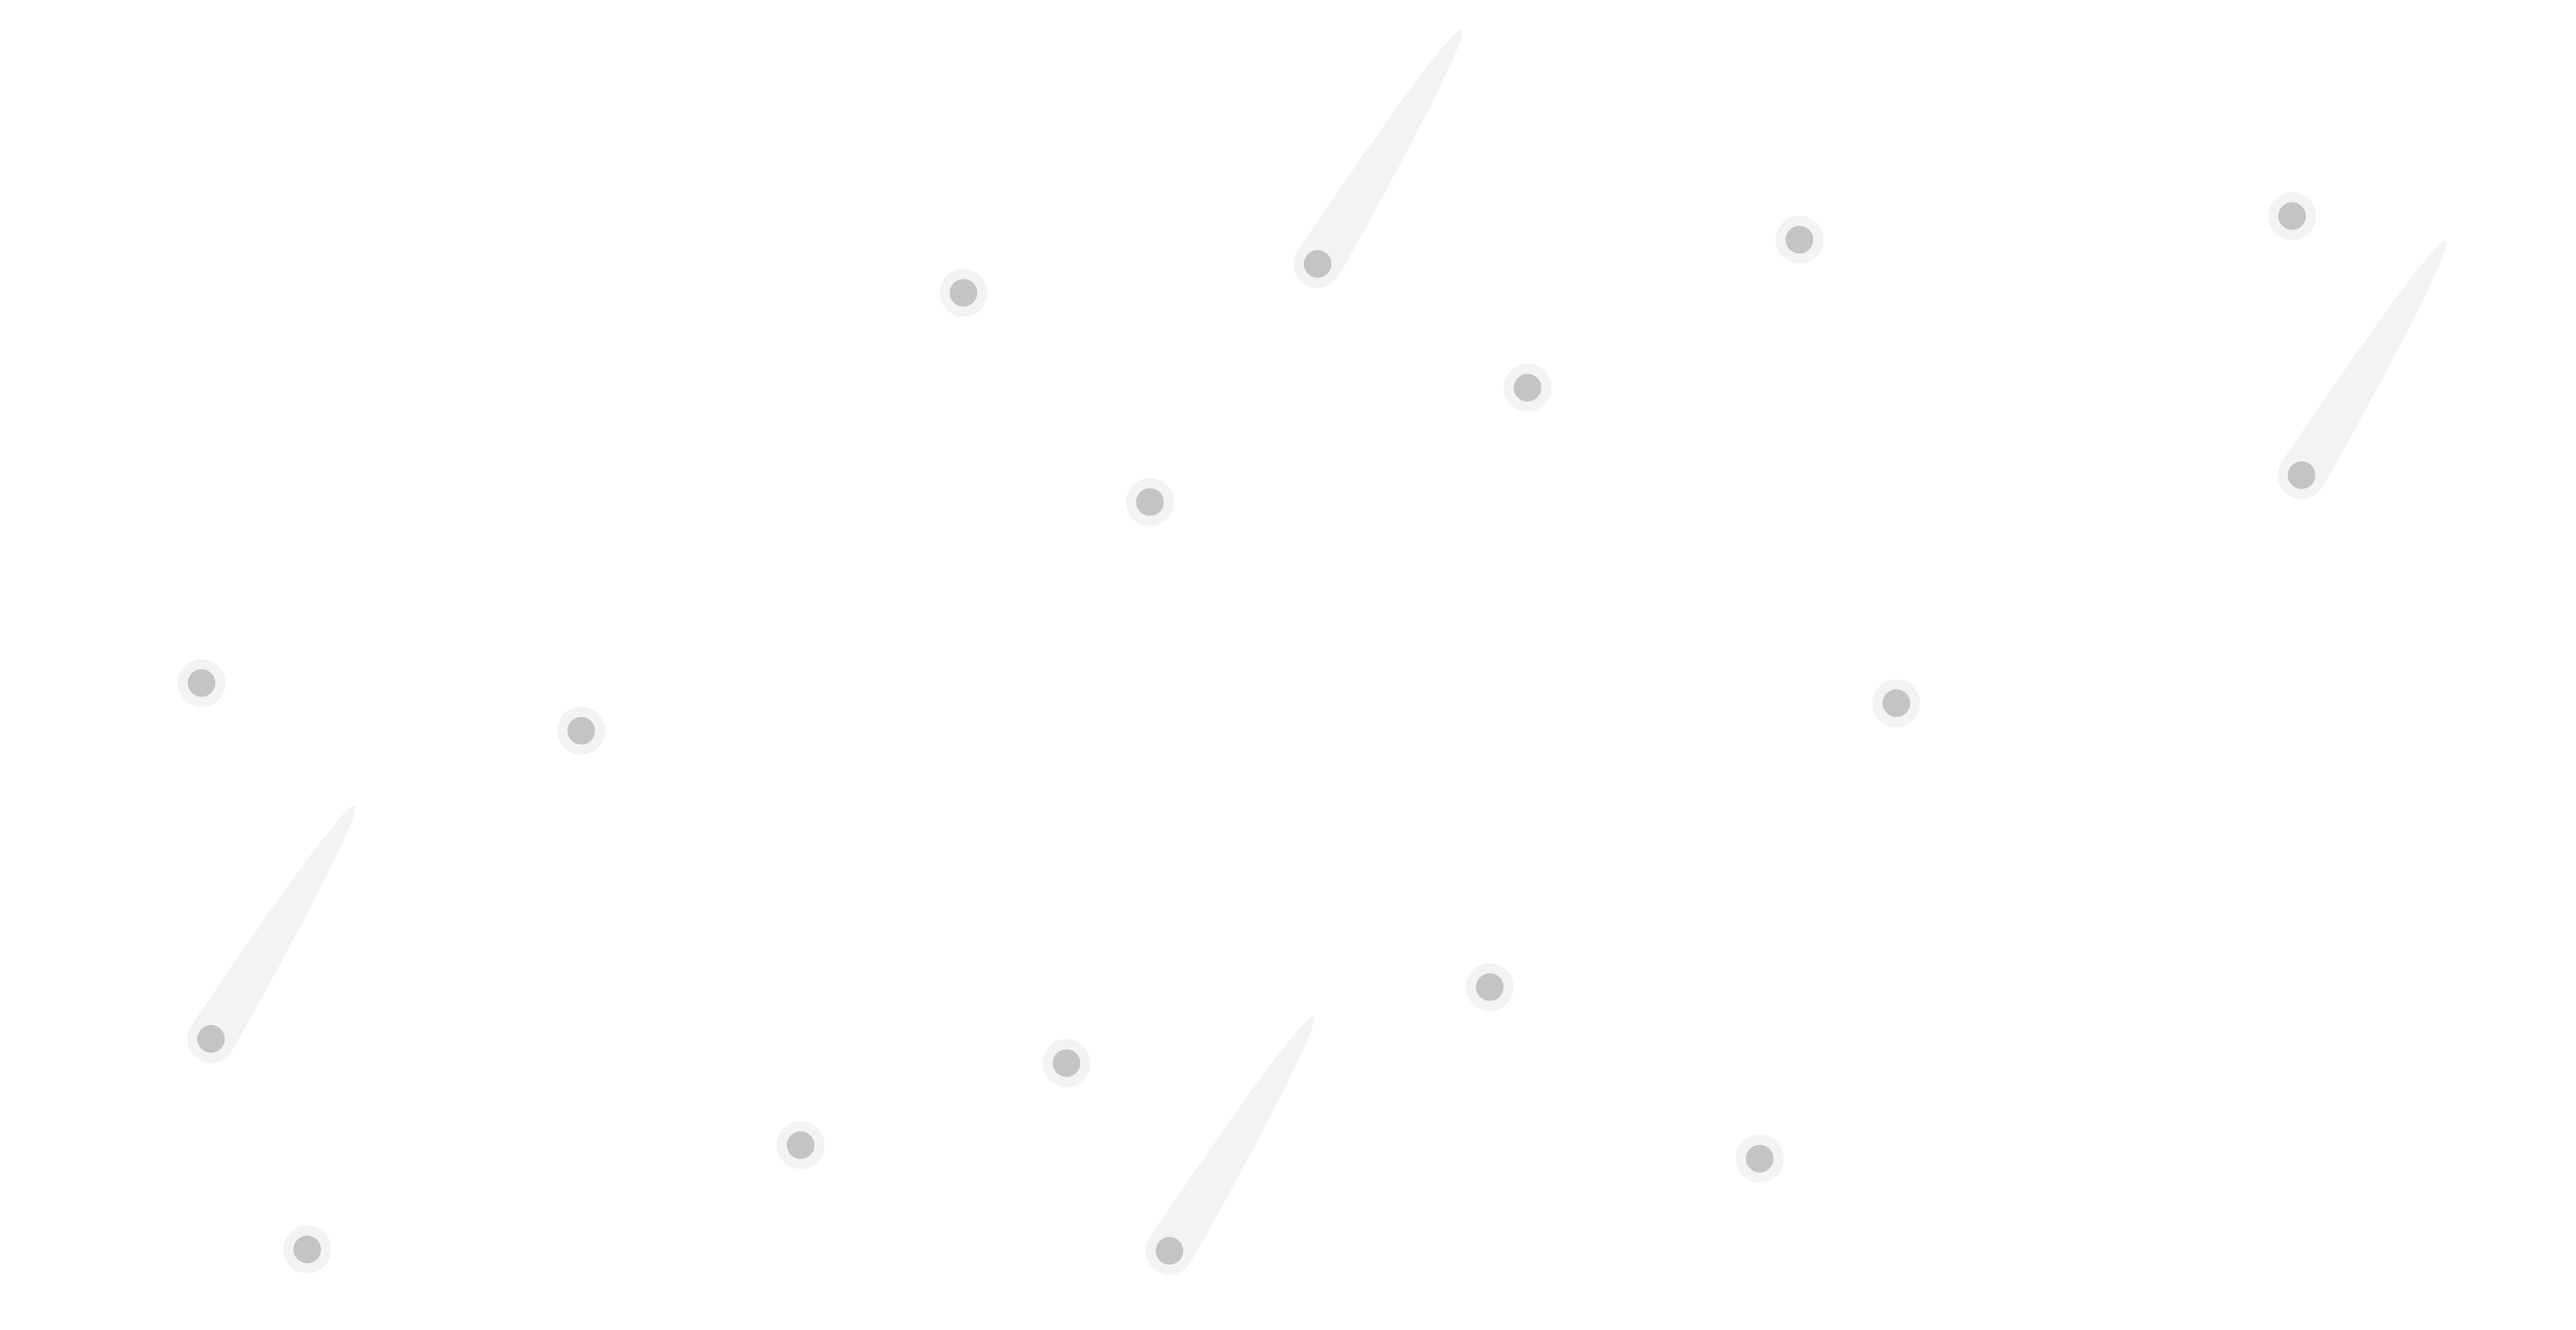
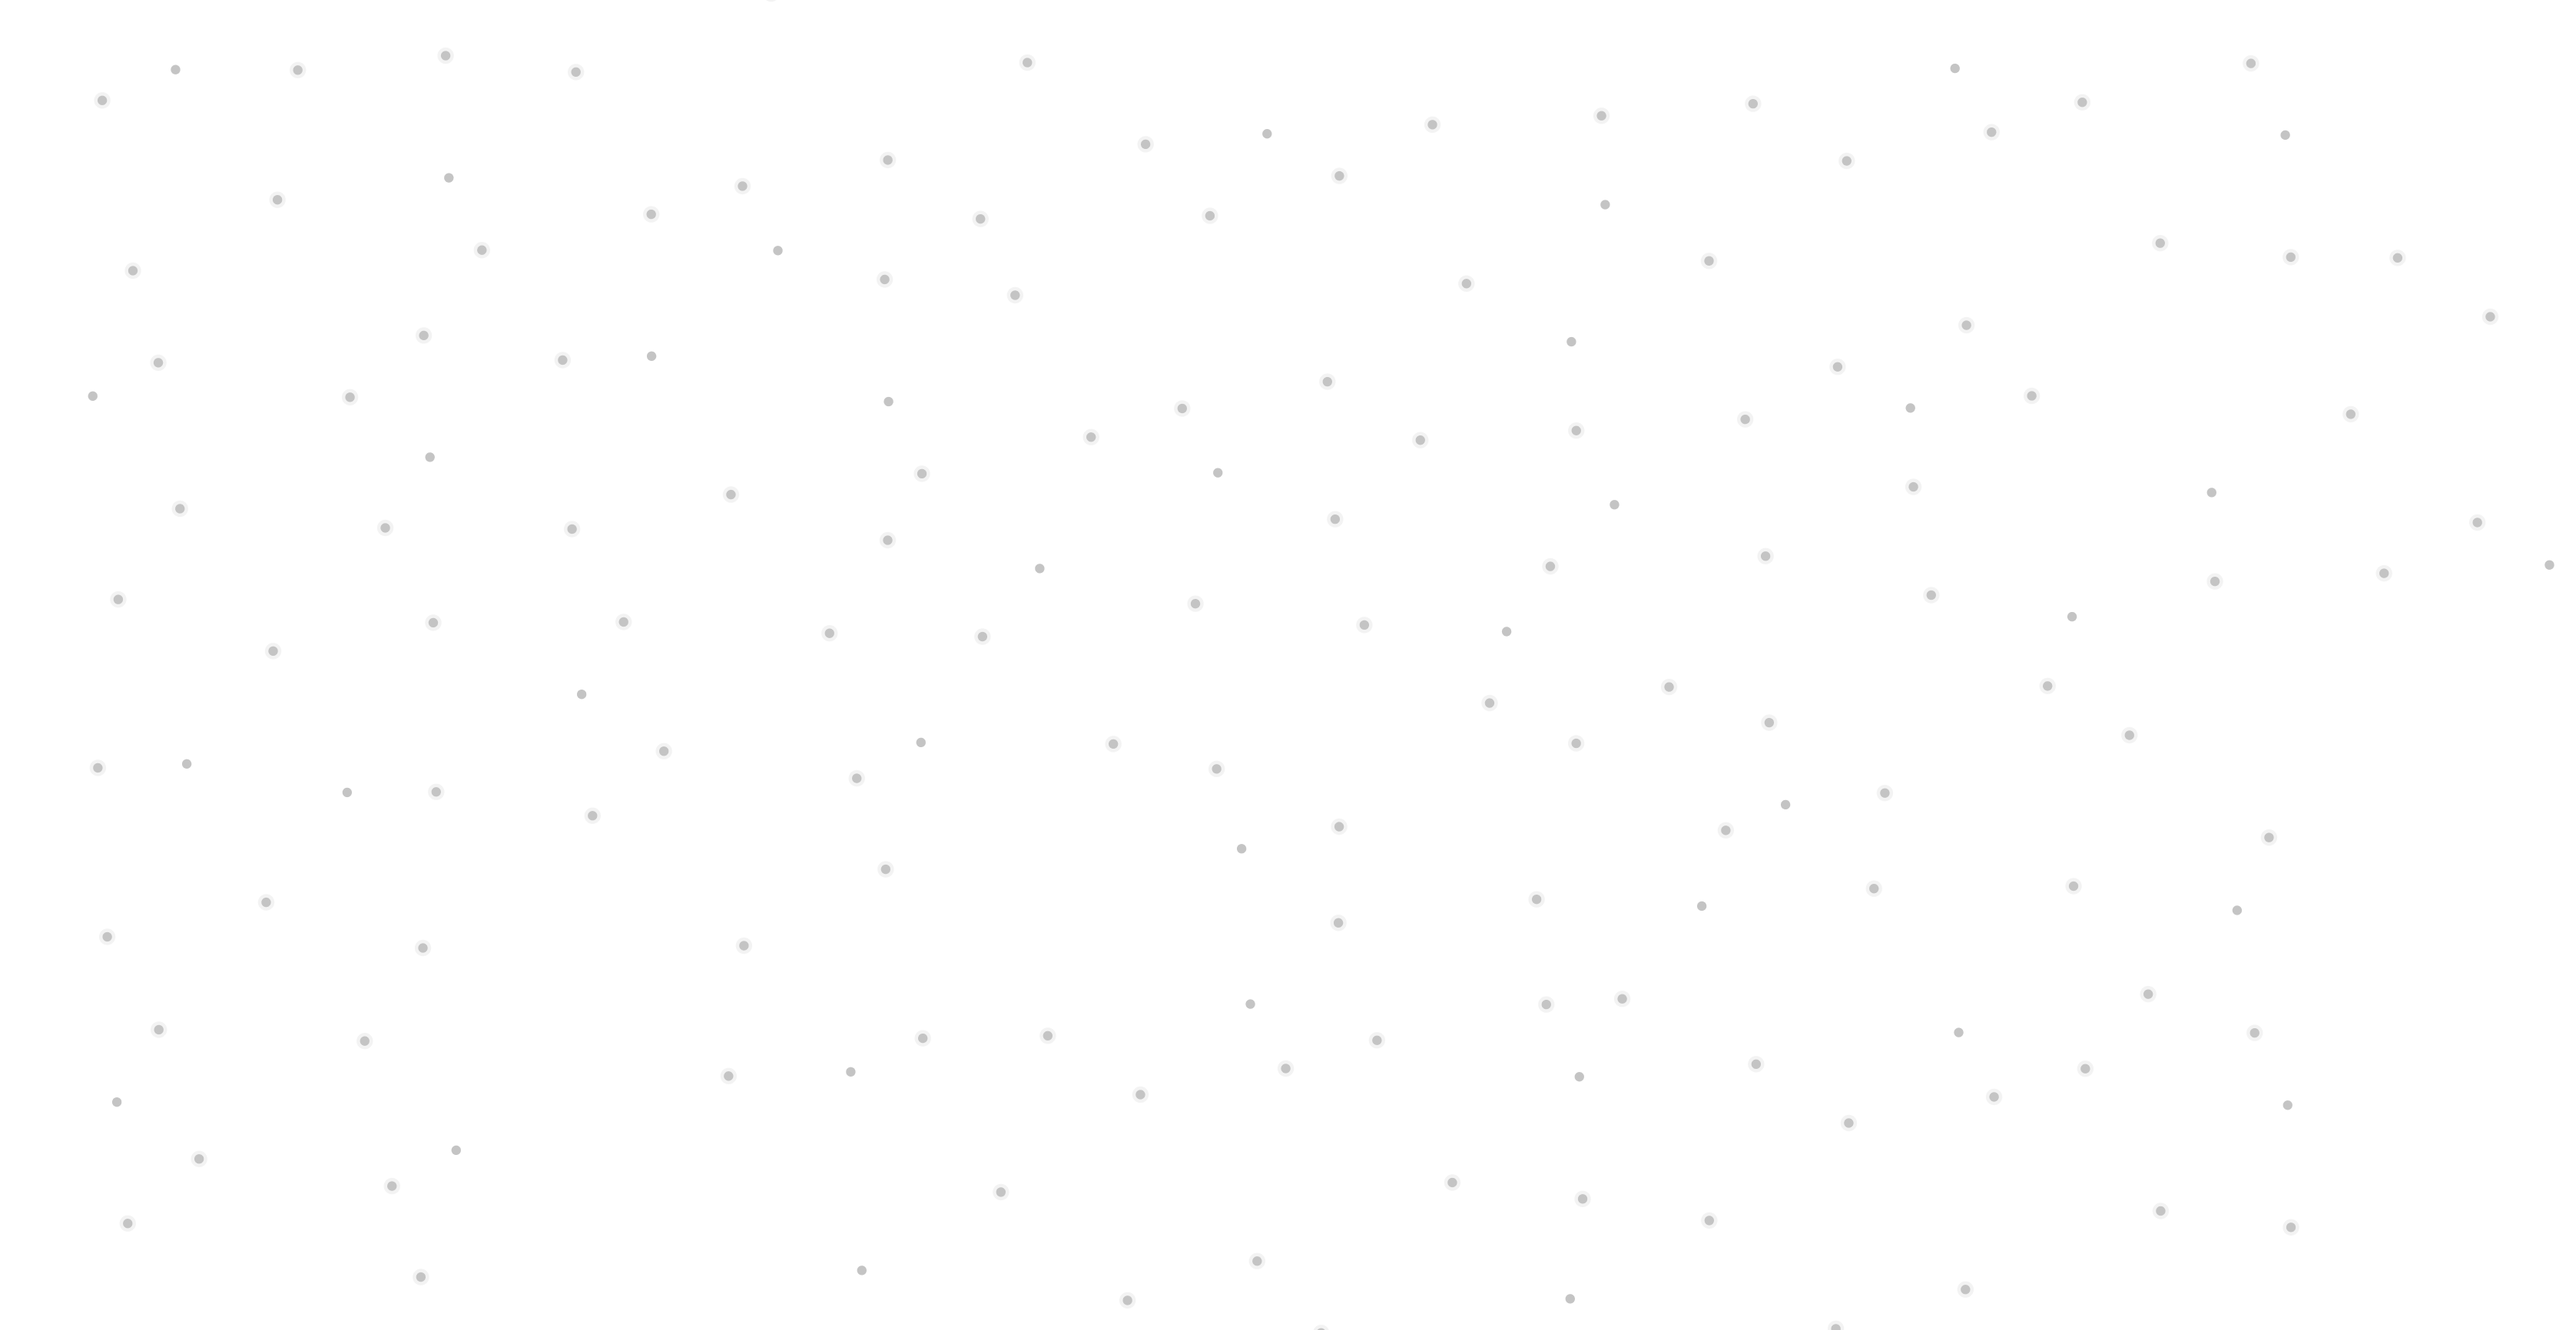
add more parallax effects

diff --git a/assets/style.css b/assets/style.css
@@ -5,7 +5,7 @@ body {
 /* hero */
 #hero {
 
-    background-image: url(../img/orang-biru.png), url(../img/orang-kuning.png), url(../img/orang-merah.png), url(../img/Bintang.png), url(../img/planet-merah.png), url(../img/planet-biru.png), url(../img/planet-kuning.png);
+    background-image: url(../img/orang-biru.png), url(../img/orang-kuning.png), url(../img/orang-merah.png), url(../img/Bintang-blur.png), url(../img/planet-merah.png), url(../img/planet-biru.png), url(../img/planet-kuning.png);
     background-repeat: no-repeat;
     overflow: hidden;
     position: relative;
@@ -17,8 +17,10 @@ body {
 }
 
 .gradient {
-    background: rgb(27, 23, 48);
+    /* background: repeat rgb(27, 23, 48); */
     background: linear-gradient(90deg, rgba(27, 23, 48, 1) 0%, rgba(9, 51, 65, 1) 100%) !important;
+    /* background-size: cover; */
+    background-attachment: fixed;
 }
 
 li .nav-link {

diff --git a/index.html b/index.html
@@ -57,9 +57,9 @@
 
             <!-- content -->
             <div class="content">
-                <h2>Your <span>Professional</span> <br> and Chips <span>Developer</span> Guide</h2>
+                <h2>Hey, you are in our space.. <br> Lets do <b>something</b>!</h2>
                 <hr style="border: 1px solid #fff; width: 300px;">
-                <button class="btn btn-outline-light mt-3 rounded-pill">Hire Us</button>
+                <button class="btn btn-outline-light mt-3 rounded-pill">let's discuss</button>
             </div>
             <!-- akhir content -->
 
